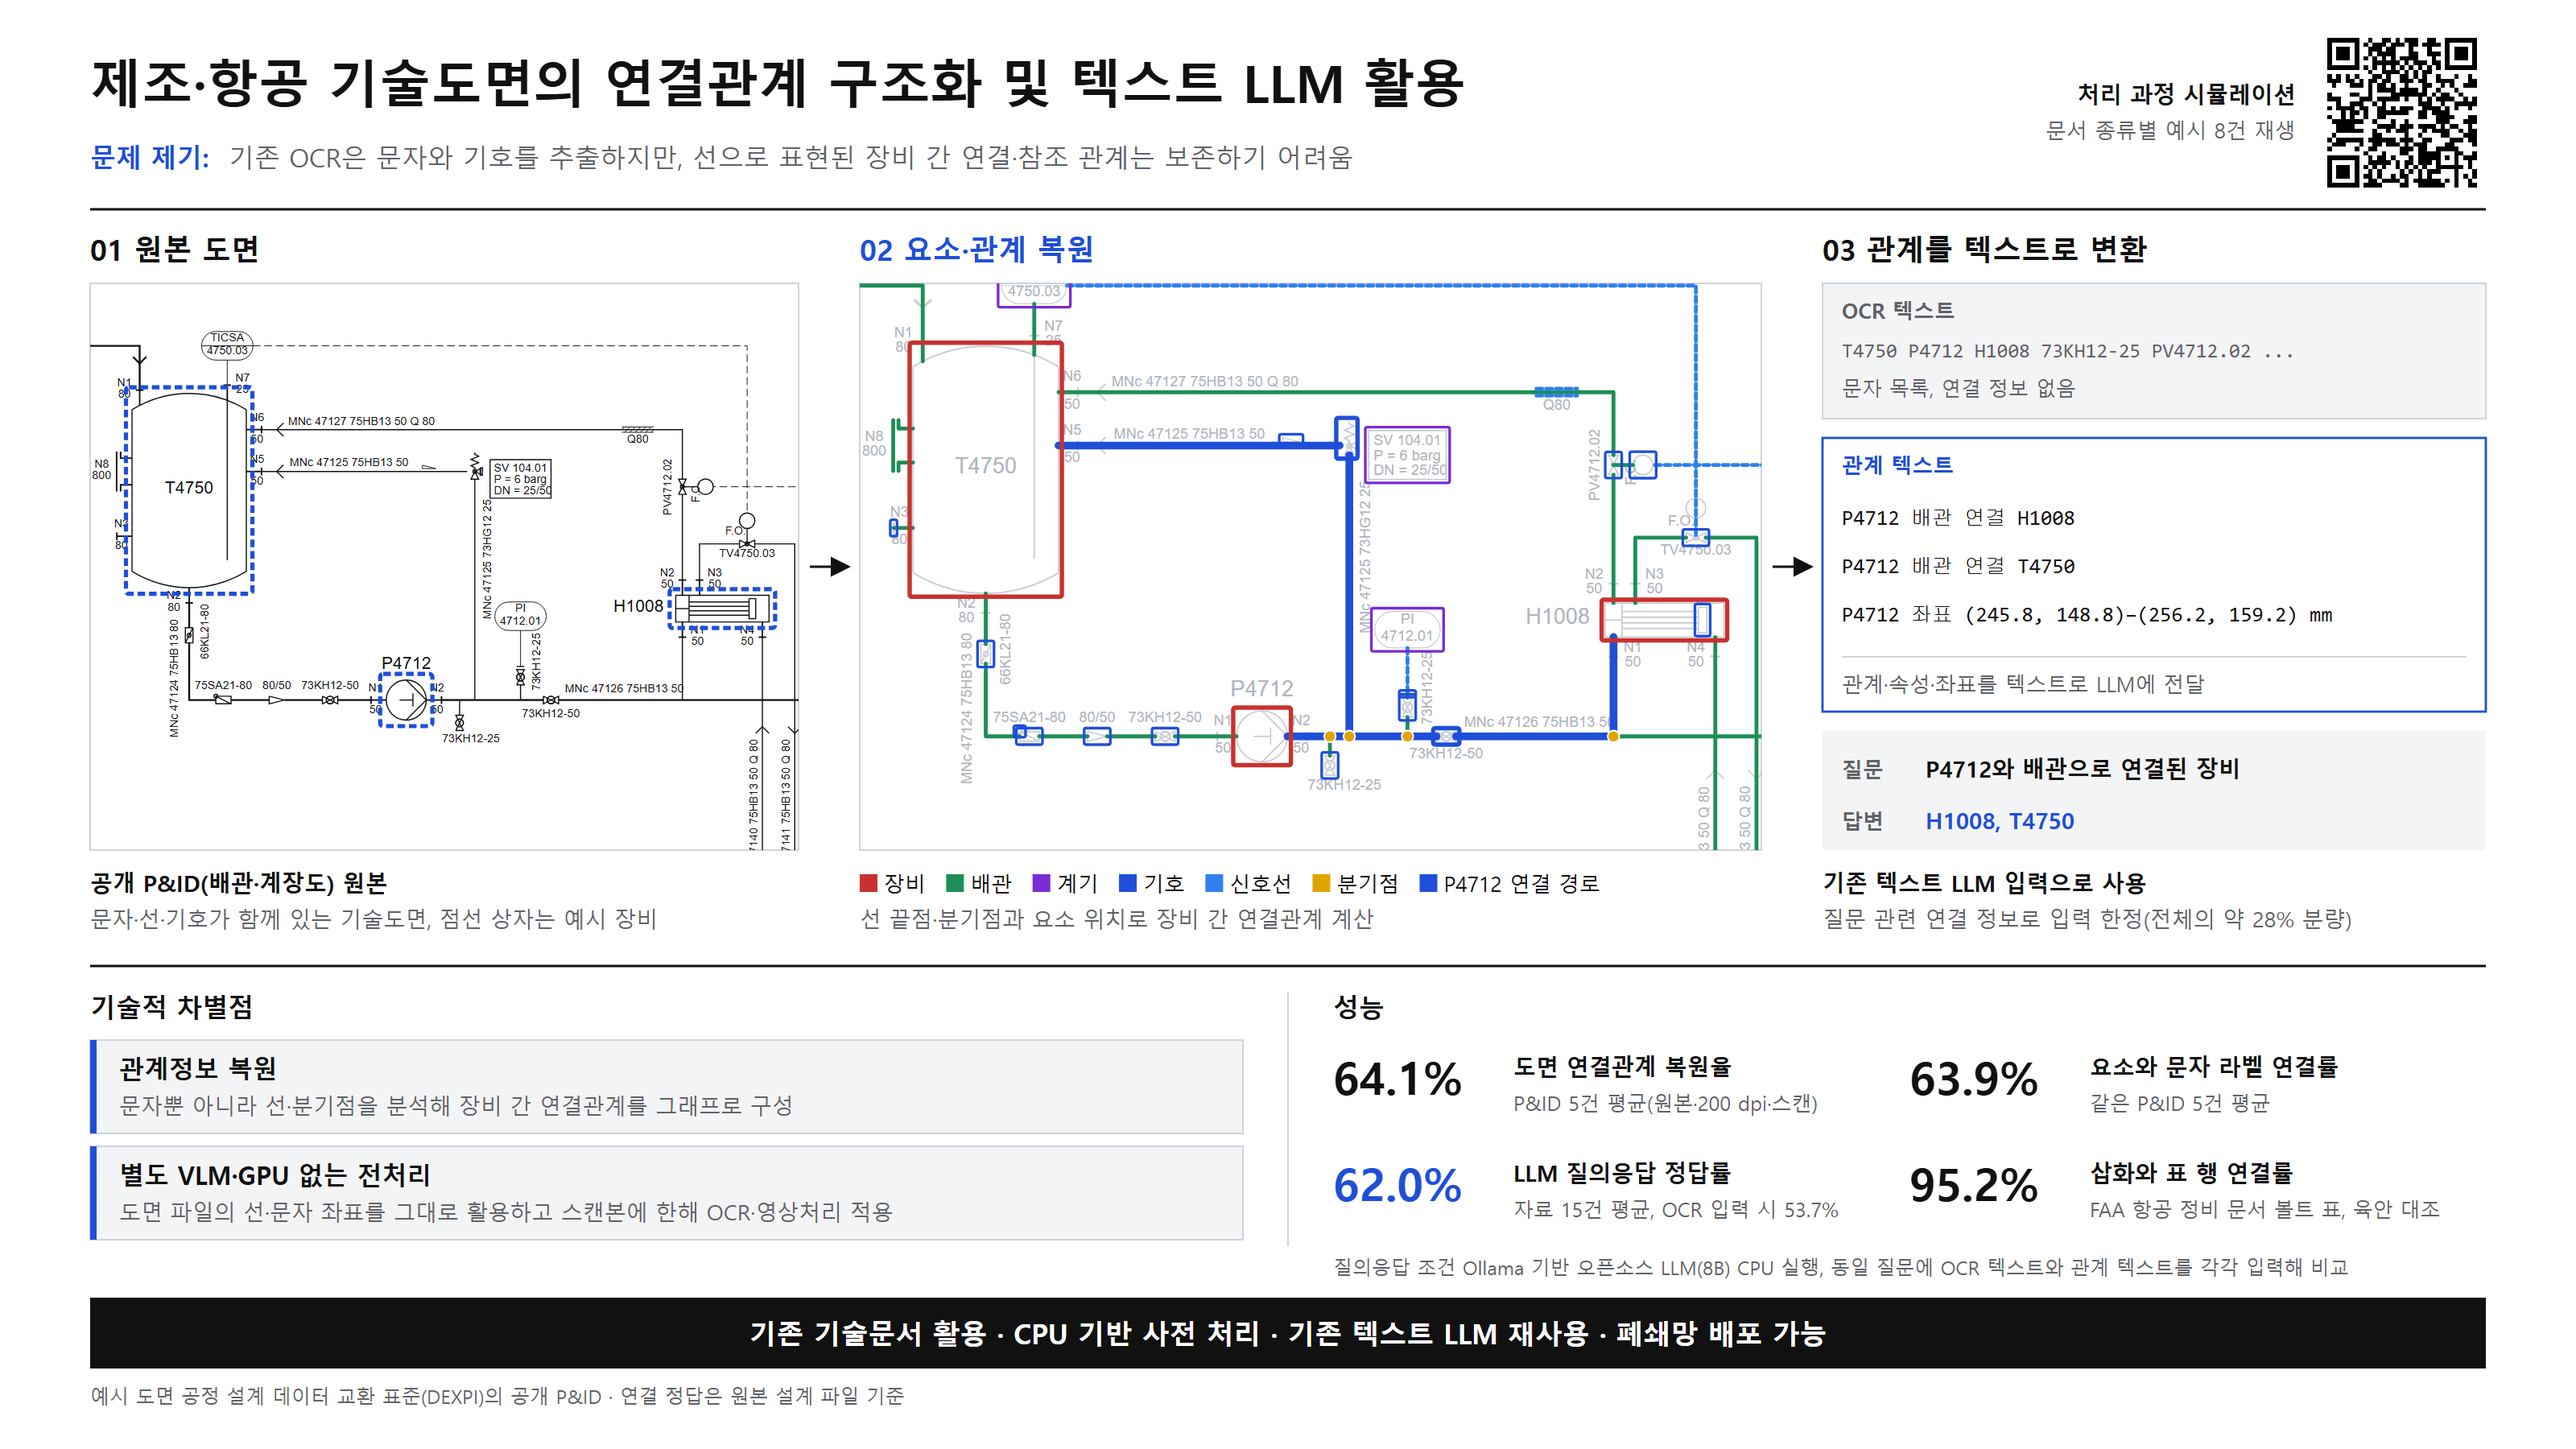
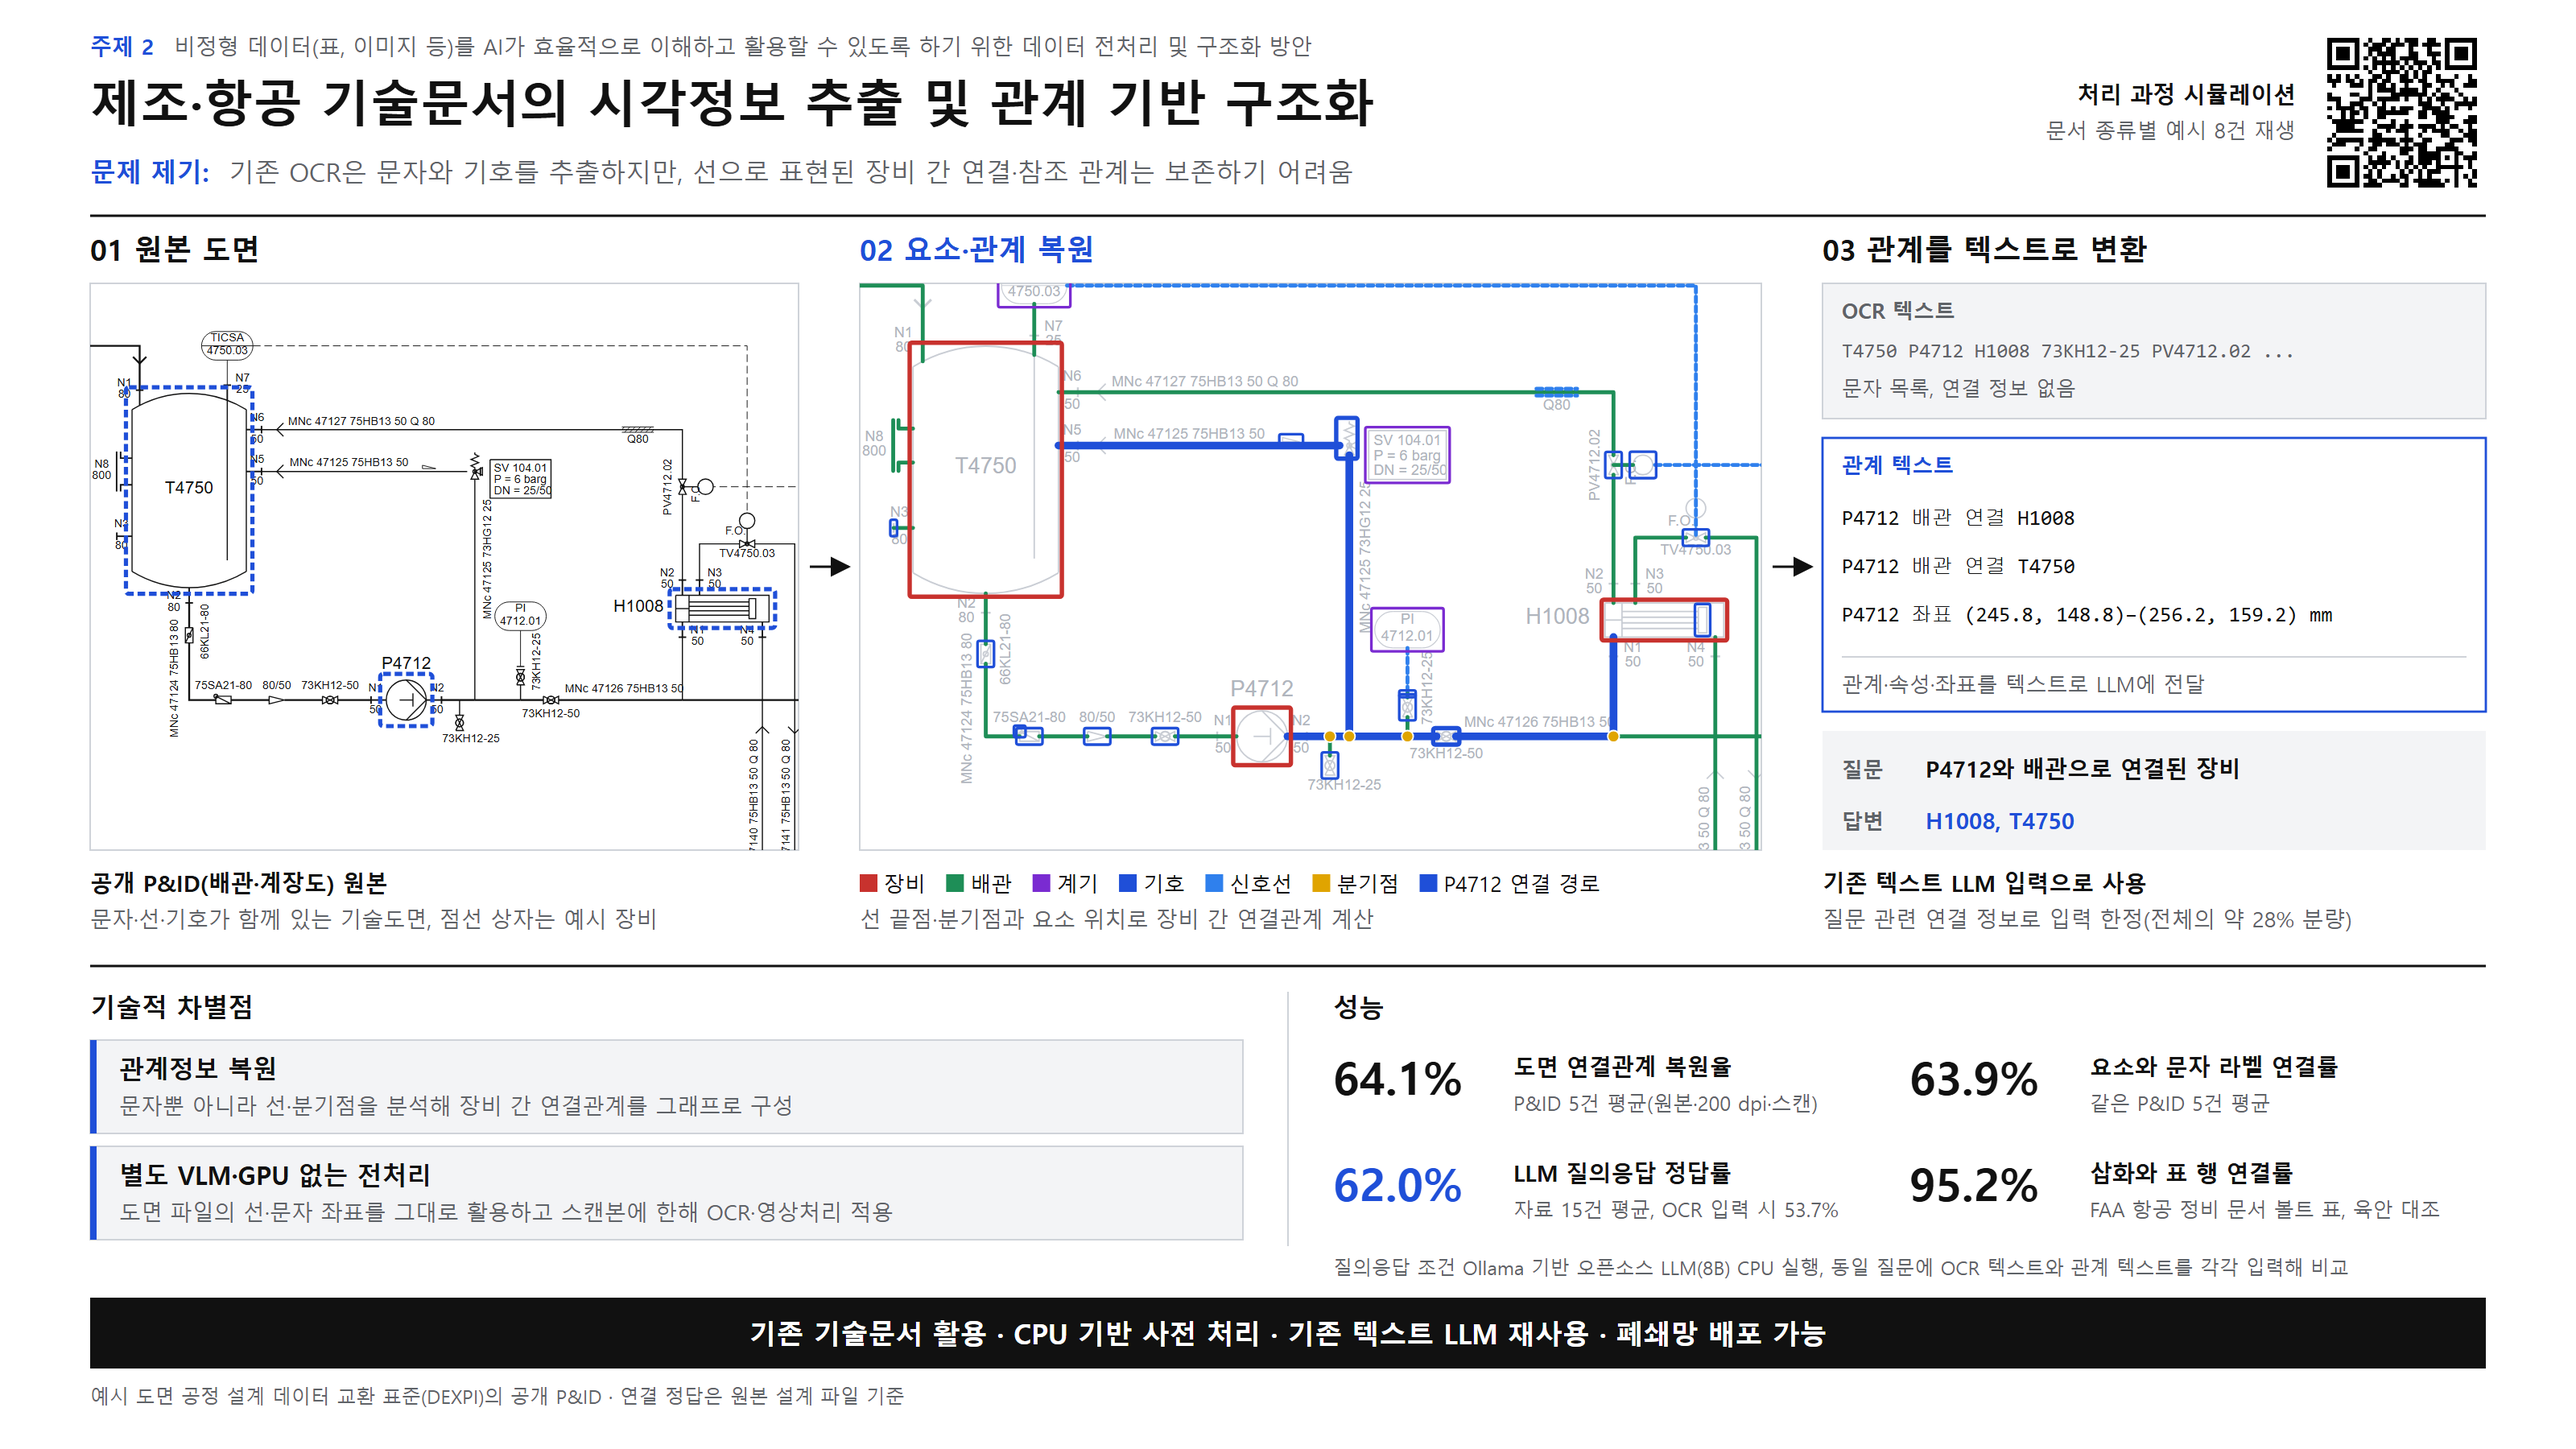
1장 슬라이드: 주제 2 문구 추가, 제목 수정

Changed region(s): [[0.0312, 0.0311, 0.9688, 0.1556]]

diff --git a/docs/figures/1장-도면-관계-구조화.html b/docs/figures/1장-도면-관계-구조화.html
@@ -1,13 +1,15 @@
 <!doctype html><html><head><meta charset="utf-8"></head><body style="margin:0"><svg xmlns="http://www.w3.org/2000/svg" width="1600" height="900" viewBox="0 0 1600 900" font-family="'Noto Sans KR', 'Malgun Gothic', sans-serif">
 <defs><marker id="ah" markerWidth="8" markerHeight="8" refX="7" refY="4" orient="auto"><path d="M0,0 L8,4 L0,8 z" fill="context-stroke"/></marker></defs>
 <rect width="1600" height="900" fill="#FFFFFF"/>
-<text x="56" y="64" font-size="32" font-weight="700" fill="#111111" text-anchor="start">제조·항공 기술도면의 연결관계 구조화 및 텍스트 LLM 활용</text>
-<text x="56" y="104" font-size="16" font-weight="700" fill="#1F4FD8" text-anchor="start">문제 제기:</text>
-<text x="142" y="104" font-size="16" font-weight="400" fill="#5F6368" text-anchor="start">기존 OCR은 문자와 기호를 추출하지만, 선으로 표현된 장비 간 연결·참조 관계는 보존하기 어려움</text>
+<text x="56" y="34" font-size="13.5" font-weight="700" fill="#1F4FD8" text-anchor="start">주제 2</text>
+<text x="108" y="34" font-size="13.5" font-weight="400" fill="#5F6368" text-anchor="start">비정형 데이터(표, 이미지 등)를 AI가 효율적으로 이해하고 활용할 수 있도록 하기 위한 데이터 전처리 및 구조화 방안</text>
+<text x="56" y="76" font-size="31" font-weight="700" fill="#111111" text-anchor="start">제조·항공 기술문서의 시각정보 추출 및 관계 기반 구조화</text>
+<text x="56" y="113" font-size="16" font-weight="700" fill="#1F4FD8" text-anchor="start">문제 제기:</text>
+<text x="142" y="113" font-size="16" font-weight="400" fill="#5F6368" text-anchor="start">기존 OCR은 문자와 기호를 추출하지만, 선으로 표현된 장비 간 연결·참조 관계는 보존하기 어려움</text>
 <svg x="1440" y="18" width="104" height="104" viewBox="-2 -2 37 37"><rect x="-2" y="-2" width="37" height="37" fill="#FFFFFF"/><path d="M0 0.5h7m2 0h1m2 0h2m1 0h1m1 0h3m2 0h2m2 0h7m-33 1h1m5 0h1m1 0h1m1 0h3m1 0h3m1 0h2m1 0h4m1 0h1m5 0h1m-33 1h1m1 0h3m1 0h1m2 0h3m1 0h2m3 0h1m3 0h1m3 0h1m1 0h3m1 0h1m-33 1h1m1 0h3m1 0h1m2 0h1m1 0h4m3 0h2m2 0h3m1 0h1m1 0h3m1 0h1m-33 1h1m1 0h3m1 0h1m1 0h1m1 0h1m1 0h1m1 0h1m1 0h4m3 0h1m2 0h1m1 0h3m1 0h1m-33 1h1m5 0h1m3 0h6m1 0h1m1 0h3m1 0h2m1 0h1m5 0h1m-33 1h7m1 0h1m1 0h1m1 0h1m1 0h1m1 0h1m1 0h1m1 0h1m1 0h1m1 0h1m1 0h7m-24 1h1m2 0h4m1 0h1m1 0h1m1 0h2m-23 1h1m1 0h1m1 0h1m1 0h1m3 0h2m1 0h1m2 0h2m1 0h1m1 0h1m2 0h1m3 0h1m2 0h1m-32 1h3m1 0h2m1 0h1m1 0h2m1 0h2m2 0h3m1 0h2m2 0h4m3 0h2m-32 1h1m3 0h3m1 0h1m1 0h2m1 0h1m2 0h1m3 0h2m2 0h1m1 0h1m2 0h3m-24 1h1m1 0h4m1 0h4m1 0h1m2 0h1m3 0h1m-29 1h1m4 0h2m2 0h1m4 0h8m1 0h1m1 0h2m2 0h1m-30 1h3m4 0h3m1 0h5m1 0h1m2 0h1m1 0h1m1 0h4m2 0h1m1 0h1m-31 1h1m2 0h3m2 0h1m1 0h1m7 0h3m2 0h1m2 0h5m-33 1h1m1 0h4m1 0h2m2 0h2m1 0h1m1 0h3m2 0h4m1 0h1m1 0h1m2 0h1m-29 1h1m1 0h2m1 0h1m2 0h7m2 0h2m1 0h4m-27 1h1m2 0h1m1 0h1m2 0h1m2 0h2m7 0h2m2 0h4m3 0h2m-32 1h7m2 0h1m3 0h1m2 0h1m6 0h3m3 0h3m-31 1h4m5 0h4m1 0h3m1 0h4m1 0h1m1 0h2m2 0h1m-30 1h6m2 0h1m2 0h1m1 0h3m3 0h1m1 0h4m2 0h1m1 0h2m-32 1h1m8 0h2m5 0h1m2 0h1m4 0h2m3 0h3m-33 1h1m1 0h6m1 0h6m1 0h3m2 0h2m4 0h3m1 0h2m-32 1h3m3 0h1m2 0h2m1 0h3m1 0h1m1 0h3m4 0h2m4 0h1m-33 1h1m5 0h1m2 0h2m5 0h3m1 0h2m2 0h5m-21 1h1m3 0h1m3 0h2m2 0h5m3 0h2m2 0h1m-33 1h7m2 0h1m1 0h2m1 0h1m3 0h1m1 0h5m1 0h1m1 0h1m1 0h3m-33 1h1m5 0h1m2 0h5m1 0h1m1 0h2m1 0h3m1 0h1m3 0h1m2 0h1m-32 1h1m1 0h3m1 0h1m1 0h1m1 0h1m1 0h1m2 0h1m1 0h1m1 0h1m1 0h1m2 0h6m1 0h1m-32 1h1m1 0h3m1 0h1m2 0h1m1 0h1m4 0h1m1 0h1m1 0h1m1 0h3m3 0h1m3 0h1m-33 1h1m1 0h3m1 0h1m1 0h2m1 0h1m2 0h1m1 0h2m2 0h1m1 0h1m5 0h1m1 0h1m1 0h1m-33 1h1m5 0h1m2 0h2m1 0h4m1 0h1m1 0h6m1 0h1m1 0h1m2 0h1m-32 1h7m1 0h4m4 0h2m2 0h6m2 0h1m2 0h2" stroke="#000000" stroke-width="1" fill="none" shape-rendering="crispEdges"/></svg>
 <text x="1426" y="64" font-size="14" font-weight="700" fill="#111111" text-anchor="end">처리 과정 시뮬레이션</text>
 <text x="1426" y="86" font-size="13" font-weight="400" fill="#5F6368" text-anchor="end">문서 종류별 예시 8건 재생</text>
-<line x1="56" y1="130" x2="1544" y2="130" stroke="#111111" stroke-width="1.4"/>
+<line x1="56" y1="134" x2="1544" y2="134" stroke="#111111" stroke-width="1.4"/>
 <text x="56" y="162" font-size="18" font-weight="700" fill="#111111" text-anchor="start">01  원본 도면</text>
 <line x1="503" y1="352.0" x2="527" y2="352.0" stroke="#111111" stroke-width="1.6" marker-end="url(#ah)"/>
 <text x="534" y="162" font-size="18" font-weight="700" fill="#1F4FD8" text-anchor="start">02  요소·관계 복원</text>

diff --git a/docs/figures/make_slide.py b/docs/figures/make_slide.py
@@ -101,9 +101,11 @@ def crop(x, y, w, h, body, fill="#FFFFFF"):
 
 # ================= 상단 =================
 L, R = 56, 1544
-t(L, 64, "제조·항공 기술도면의 연결관계 구조화 및 텍스트 LLM 활용", 32, True, maxw=1180)
-t(L, 104, "문제 제기:", 16, True, ACC)
-t(L + 86, 104, "기존 OCR은 문자와 기호를 추출하지만, 선으로 표현된 장비 간 연결·참조 관계는 보존하기 어려움", 16, False, GR, maxw=1100)
+t(L, 34, "주제 2", 13.5, True, ACC)
+t(L + 52, 34, "비정형 데이터(표, 이미지 등)를 AI가 효율적으로 이해하고 활용할 수 있도록 하기 위한 데이터 전처리 및 구조화 방안", 13.5, False, GR, maxw=1180 - 52)
+t(L, 76, "제조·항공 기술문서의 시각정보 추출 및 관계 기반 구조화", 31, True, maxw=1180)
+t(L, 113, "문제 제기:", 16, True, ACC)
+t(L + 86, 113, "기존 OCR은 문자와 기호를 추출하지만, 선으로 표현된 장비 간 연결·참조 관계는 보존하기 어려움", 16, False, GR, maxw=1100)
 import re as _re
 _q = open(os.path.join(HERE, 'qr-처리-과정-시뮬레이션.svg'), encoding='utf-8').read()
 _d = _re.search(r' d="([^"]+)"', _q).group(1); _n = int(_re.search(r'width="(\d+)"', _q).group(1)) // 4
@@ -111,7 +113,7 @@ QS = 104
 out.append(f'<svg x="{R - QS}" y="18" width="{QS}" height="{QS}" viewBox="-2 -2 {_n + 4} {_n + 4}"><rect x="-2" y="-2" width="{_n + 4}" height="{_n + 4}" fill="#FFFFFF"/><path d="{_d}" stroke="#000000" stroke-width="1" fill="none" shape-rendering="crispEdges"/></svg>')
 t(R - QS - 14, 64, "처리 과정 시뮬레이션", 14, True, INK, "end")
 t(R - QS - 14, 86, "문서 종류별 예시 8건 재생", 13, False, GR, "end")
-hline(L, R, 130, INK, 1.4)
+hline(L, R, 134, INK, 1.4)
 
 # ================= 중단: 실제 도면 처리 과정 =================
 PWS = [440, 560, 412]; PG = 38
